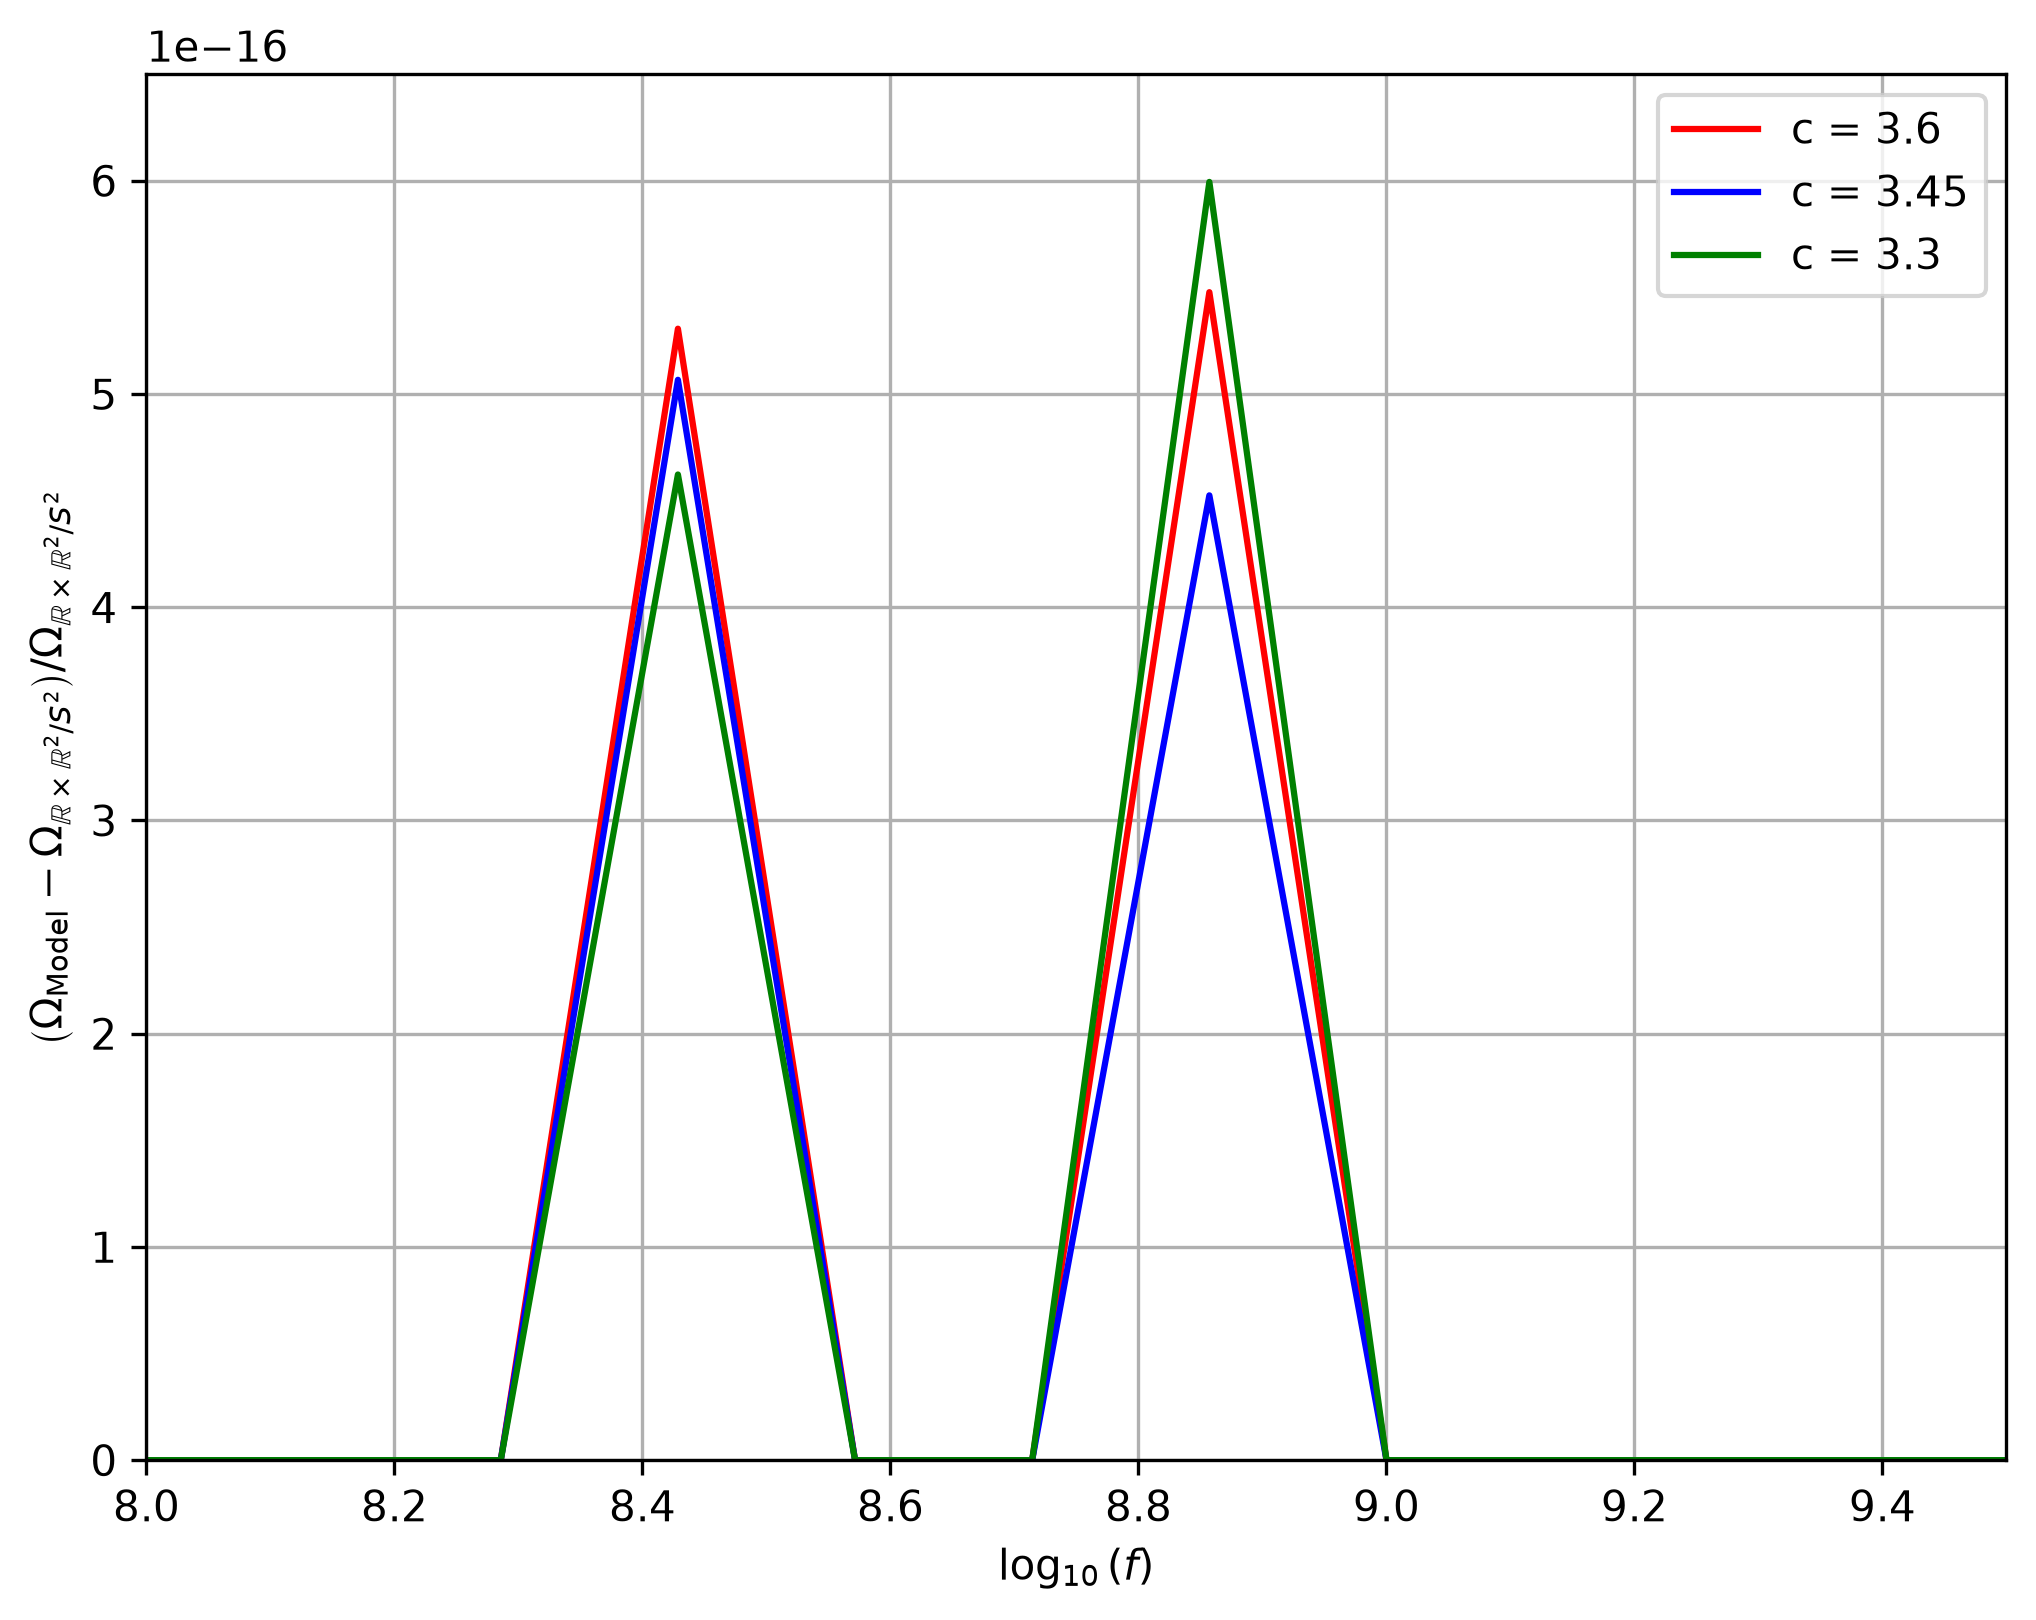
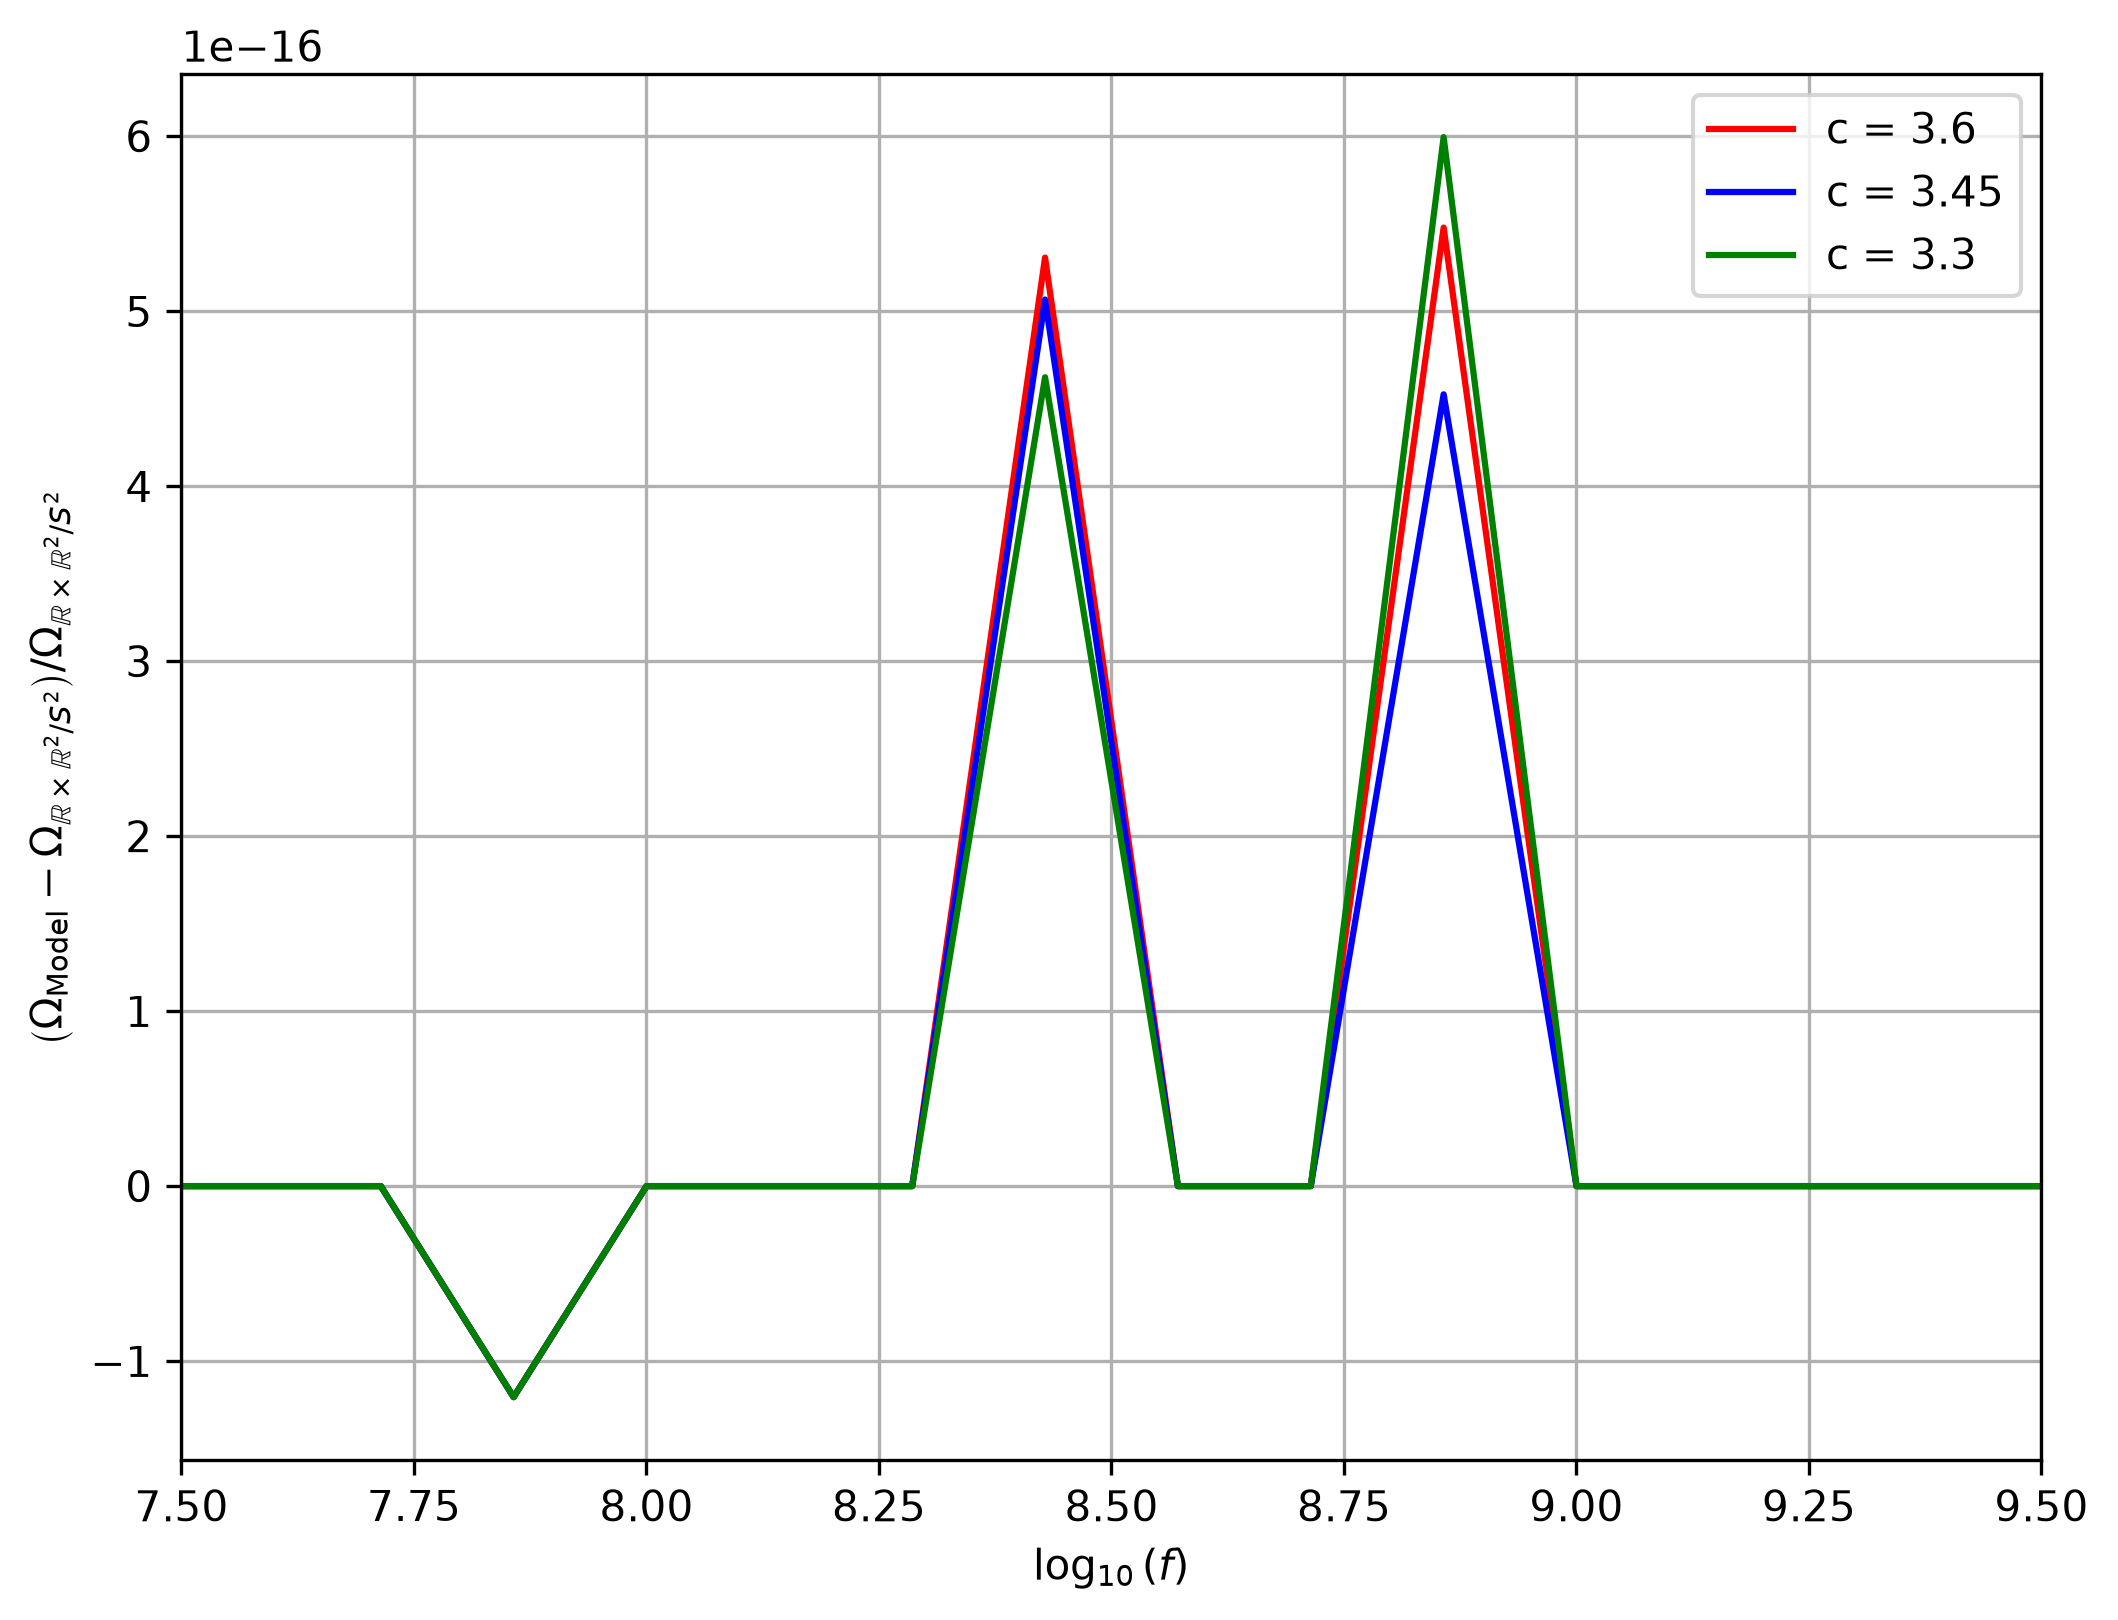
updated_codes

diff --git a/solv_source.py b/solv_source.py
@@ -1,24 +1,51 @@
-#This script plots the varioation of Solv geometry's source term against the parameter 'c' for each value of 'l'
+#This script plots the Solv geometry's source amplitude for each ('l', 'c') pair.
+#Each 'l' value has its own unique set of 'c' values, so three separate figures are generated, one per 'l'.
 
 import matplotlib.pyplot as plt
+import numpy as np
+from scipy.interpolate import make_interp_spline
 
-c_vals = [3.3, 3.45, 3.6]
+datasets = {
+    2.0: [
+        (3.30, 2.310e-8, 'green', 'o'),
+        (3.45, 1.473e-8, 'blue',  's'),
+        (3.60, 9.155e-9, 'red',   '^'),
+    ],
+    4.0: [
+        (2.9, 2.738e-9, 'green', 'o'),
+        (3.0, 1.587e-9, 'blue',  's'),
+        (3.1, 8.999e-10, 'red',  '^'),
+    ],
+    6.0: [
+        (2.7, 5.415e-10, 'green', 'o'),
+        (2.8, 2.492e-10, 'blue',  's'),
+        (2.9, 1.111e-10, 'red',   '^'),
+    ],
+}
 
-solv_l20 = [2.310e-8, 1.473e-8, 9.155e-9]
-solv_l25 = [7.603e-9, 4.272e-9, 2.326e-9]
-solv_l30 = [2.503e-9, 1.239e-9, 5.911e-10]
+for l_val, points in datasets.items():
+    plt.figure(figsize=(8, 6))
 
-plt.figure(figsize=(8, 6))
+    c_vals = np.array([pt[0] for pt in points])
+    amp_vals = np.array([pt[1] for pt in points])
 
-plt.plot(c_vals, solv_l20, marker='o', linestyle='-', label=r'$l = 2.0$')
-plt.plot(c_vals, solv_l25, marker='s', linestyle='-', label=r'$l = 2.5$')
-plt.plot(c_vals, solv_l30, marker='^', linestyle='-', label=r'$l = 3.0$')
+    c_smooth = np.linspace(c_vals.min(), c_vals.max(), 300)
+    spline = make_interp_spline(c_vals, amp_vals, k=2)
+    amp_smooth = spline(c_smooth)
 
-plt.xlabel('c', fontsize=12)
-plt.ylabel('Solv source amplitude', fontsize=12)
-plt.title("Variation of Solv source with parameter 'c'", fontsize=14)
-plt.grid(True, linestyle='--', alpha=0.7)
-plt.legend(fontsize=11)
+    plt.plot(c_smooth, amp_smooth, color='gray', linestyle='-', linewidth=1.5, zorder=1)
 
-plt.tight_layout()
-plt.savefig('solv_source_variation.png', dpi=300)
+    for c_val, amp, color, marker in points:
+        plt.plot(c_val, amp, marker=marker, linestyle='none',
+                  color=color, markersize=10, label=f'c = {c_val}', zorder=2)
+
+    plt.xlabel('c', fontsize=12)
+    plt.ylabel('Solv source amplitude', fontsize=12)
+    plt.title(f"Variation of Solv source with 'c' (l = {l_val})", fontsize=14)
+    plt.grid(True, linestyle='--', alpha=0.7)
+
+    plt.legend(fontsize=11, frameon=False)
+
+    plt.tight_layout()
+    plt.savefig(f'solv_source_variation_l{str(l_val).replace(".", "_")}.png', dpi=300)
+    plt.close()

diff --git a/plotting_over_PLIC.py b/plotting_over_PLIC.py
@@ -1,0 +1,69 @@
+#This script plots the reference PLICs contours only
+
+import numpy as np
+import matplotlib.pyplot as plt
+
+ns = {}
+src = open("mhz.py").read().split("target_models = [")[0]
+exec(src, ns)
+calculate_Y = ns["calculate_Y"]
+c_values    = ns["c_values"]
+colors      = ns["colors"]
+HI, MPl     = ns["HI"], ns["MPl"]
+
+refdir = "data/"
+COL    = 1
+YTOP   = 1e-4
+YMIN   = 1e-18
+f_array = ns["f_array"]
+
+det = {
+    "SKA":      ("#483d8b",   (1.5e-9, 6e-16)),
+    "IPTA":     ("royalblue", (1.5e-9, 1.2e-13)),
+    "PPTA":     ("seagreen",  (8e-9,   3e-12)),
+    "EPTA":     ("sienna",    (1.5e-8, 2e-11)),
+    "NANOGrav": ("darkorange",(3e-8,   2e-10)),
+    "LISA":     ("teal",      (1e-5,   3e-12)),
+    "DECIGO":   ("purple",    (3e-2,   1e-15)),
+    "BBO":      ("darkred",   (1e-1,   1e-16)),
+    "ET":       ("firebrick", (1e1,    1e-14)),
+    "CE":       ("c",         (5e1,    1e-15)),
+    "HLV":      ("slategray", (1e0,    1e-8)),
+}
+
+fig, ax = plt.subplots(figsize=(11, 6.5))
+
+for name, (c, (lx, ly)) in det.items():
+    d = np.loadtxt(f"{refdir}plis_{name}.dat")
+    f, om = 10**d[:, 0], 10**d[:, COL]
+    ax.loglog(f, om, color=c, lw=1.2, zorder=2)
+    ax.fill_between(f, om, YTOP, color=c, alpha=0.12, lw=0, zorder=1)
+    ax.text(lx, ly, name, color=c, fontsize=8, fontweight="bold")
+
+ybbn = 1.2e-6
+ax.axhline(ybbn, color="k", ls="--", lw=1.5, zorder=2)
+ax.axhspan(ybbn, YTOP, color="gray", alpha=0.2, zorder=1)
+ax.text(1.2e-10, 1.6e-6, "BBN Bound", fontweight="bold")
+
+ax.axvspan(3e8, 3e10, color="gold", alpha=0.15, zorder=1)
+ax.text(1.5e9, 3e-16, "UHF-GW Regime\n(Microwave Cavities)", ha="center",
+        color="darkgoldenrod", fontweight="bold")
+
+for c_val, color in zip(c_values, colors):
+    Y = calculate_Y("RH2S2", c_val, f_array)
+    m = Y > 0
+    ax.plot(f_array[m], Y[m], color=color, lw=2, label=f"c = {c_val}", zorder=10)
+
+h0, OmR, g1, g2 = 0.7, 1e-5, 106.75, 106.75
+Y_pref = (1/24)*h0*h0*OmR*(g1/3.363)*(3.909/g2)**(4/3)
+Y_vac  = Y_pref * 2*(HI/(np.pi*MPl))**2
+ax.axhline(Y_vac, color="gold", ls="--", lw=2, label="Pure tensor vacuum", zorder=9)
+
+ax.set_xlim(1e-10, 1e12)
+ax.set_ylim(YMIN, 1e-5)
+ax.set_xlabel("f [Hz]")
+ax.set_ylabel(r"$h_0^2 \Omega_{GW}$")
+ax.grid(alpha=0.2)
+ax.legend(loc="upper right", framealpha=0.9)
+plt.tight_layout()
+plt.savefig("overlay_l=2.0.png", dpi=300)

diff --git a/mhz.py b/mhz.py
@@ -1,3 +1,5 @@
+#This scipt plots the GW spectrum with frequency on the top of reference PLICs contours
+
 import numpy as np
 import scipy.special as special
 import scipy.integrate as integrate
@@ -7,11 +9,24 @@ import warnings
 MPl = 1
 HI = (1e-5) * MPl
 L = 1e26
-l = 3.0
 j = 1j
 
+#----------------------------------------
+#Set-1
+l = 2.0
+c_values = [3.60, 3.45, 3.30]
+
+#Set-2
+#l = 4.0
+#c_values = [3.1, 3.0, 2.9]
+
+#Set-3
+#l = 6.0
+#c_values = [2.9, 2.8, 2.7]
+#----------------------------------------
+
 f_array = np.logspace(3, 10, 50) 
-c_values = [3.6, 3.45, 3.3]
+
 colors = ['red', 'blue', 'green']
 
 def calculate_Y(model_name, c_val, f_array):
@@ -180,8 +195,8 @@ for target_model in target_models:
         #plt.ylim(-20, 50)
     else:
         plt.ylabel(r"$\left(\Omega_\text{Model} - \Omega_{\mathbb{R} \times \mathbb{R}^2 / S^2} \right) / \Omega_{\mathbb{R} \times \mathbb{R}^2 / S^2}$")
-        #plt.xlim(8, 9.5)
-        plt.ylim(0, 6.0e-16)
+        #plt.xlim(7.5, 9.5)
+        #plt.ylim(0, 6.5e-16)
         
         if target_model == 'UH2':
             display_name = r"$\widetilde{U \left(\mathbb{H}^2 \right)}$"
@@ -225,9 +240,9 @@ for target_model in target_models:
     box_text = box_text.strip()
 
     #Displays the Solv source amplitude
-    plt.gca().text(0.05, 0.05, box_text, transform=plt.gca().transAxes, fontsize=10,
-                   verticalalignment='bottom', horizontalalignment='left',
-                   bbox=dict(boxstyle='round,pad=0.5', facecolor='white', edgecolor='black', alpha=0.9))
+    #plt.gca().text(0.05, 0.05, box_text, transform=plt.gca().transAxes, fontsize=10,
+                   #verticalalignment='bottom', horizontalalignment='left',
+                   #bbox=dict(boxstyle='round,pad=0.5', facecolor='white', edgecolor='black', alpha=0.9))
 
     plt.grid(True)
     plt.legend()
